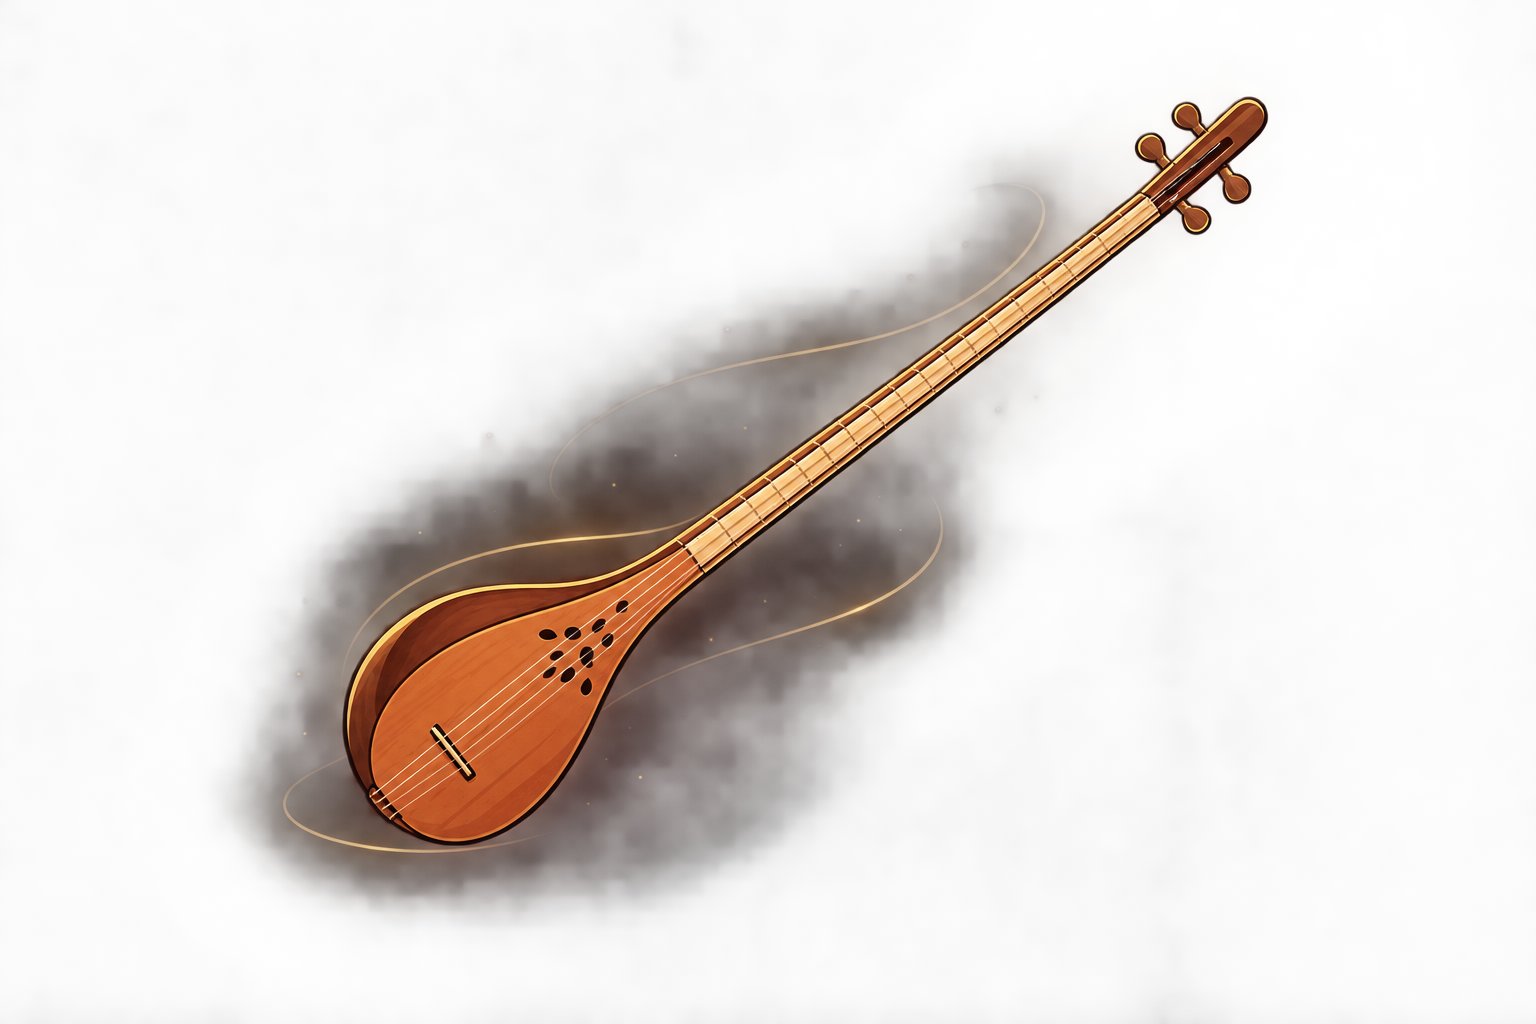
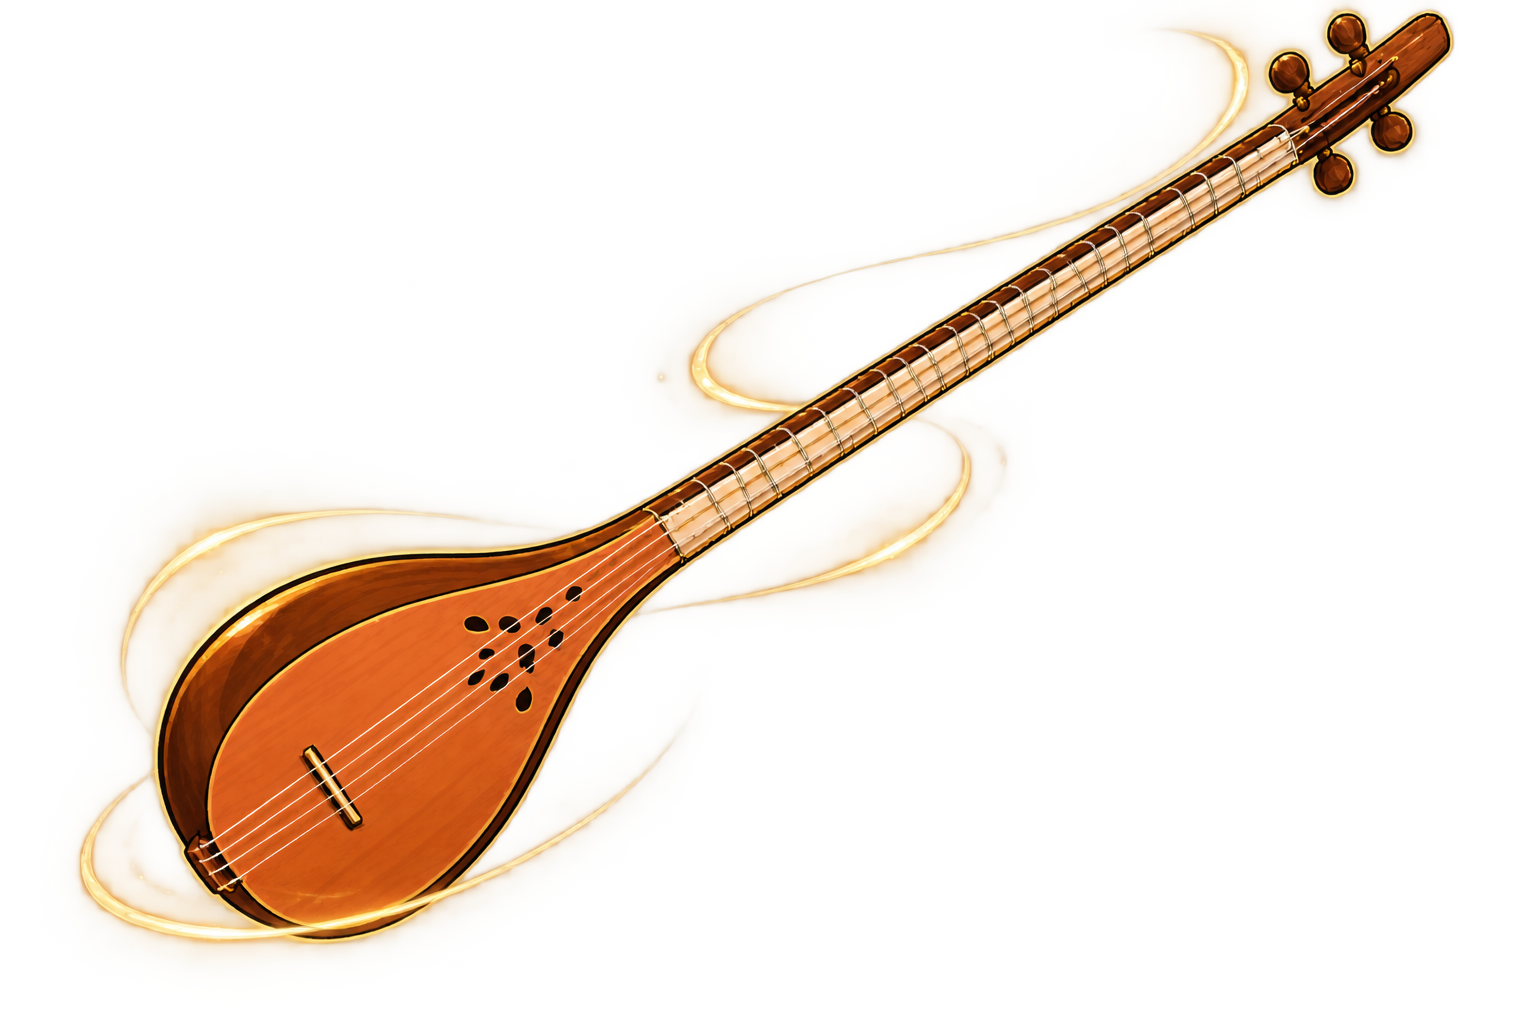
Add files via upload

Changed region(s): [[0.0312, 0.0, 0.9688, 0.9375]]

diff --git a/style.css b/style.css
@@ -108,7 +108,6 @@ html[dir="rtl"] body { font-family: var(--font-fa); }
 }
 .btn-gold:hover { transform: translateY(-2px); box-shadow: 0 6px 20px rgba(212, 175, 55, 0.4); background: linear-gradient(135deg, var(--gold), #fff3b0, var(--gold)); }
 
-/* آیکون موبایل به صورت پیشفرض مخفی است */
 .mobile-only-icon { display: none; }
 
 /* ═══════ بخش Hero (Home) ═══════ */
@@ -282,17 +281,22 @@ html[dir="rtl"] .timeline-item.right .timeline-content { flex-direction: row-rev
   filter: blur(40px);
 }
 
-/* استایل عکس سهتار */
+/* 🎯 فیکس نهایی عکس سهتار برای دارک و لایت */
 .setar-img {
   width: 100%;
   max-width: 400px;
   z-index: 2;
   animation: floatSetar 6s ease-in-out infinite;
-  filter: drop-shadow(0 20px 30px rgba(0, 0, 0, 0.6));
-  mix-blend-mode: screen; 
+  /* سایه ملایم برای دارک مود */
+  filter: drop-shadow(0 15px 25px rgba(0, 0, 0, 0.5));
 }
+
+/* افکت مخصوص تم روشن */
 html[data-theme="light"] .setar-img {
-  mix-blend-mode: multiply;
+  /* حذف کامل پسزمینه سفید/صورتی عکس */
+  mix-blend-mode: darken; 
+  /* حذف سایه قبلی تا باکس دیده نشه */
+  filter: none; 
 }
 
 @keyframes floatSetar {
@@ -412,7 +416,6 @@ html[dir="rtl"] .playlist-header h3 {
 html[dir="rtl"] .artist-col li:hover {
   transform: translateX(-5px);
 }
-
 
 /* ═══════ بخش My Setup ═══════ */
 .setup-wrapper {
@@ -910,10 +913,10 @@ html[dir="rtl"] .input-group textarea {
     border-radius: 50%;
   }
   .btn-gold span {
-    display: none; /* مخفی کردن متن در موبایل */
+    display: none; 
   }
   .mobile-only-icon {
-    display: block; /* نمایش آیکون در موبایل */
+    display: block;
     font-size: 1rem;
     margin-top: 2px;
   }
